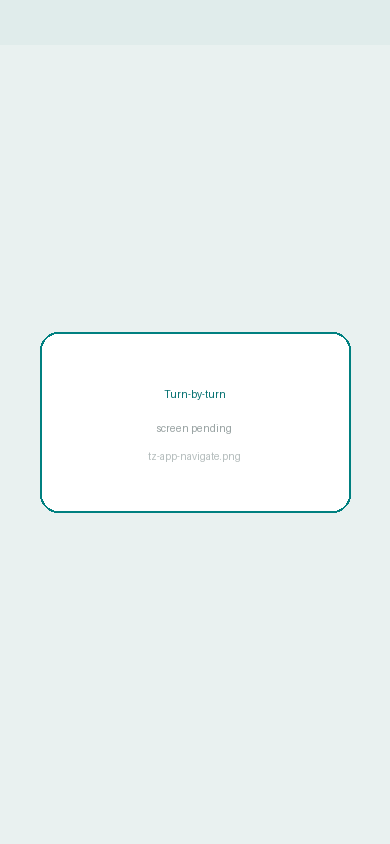
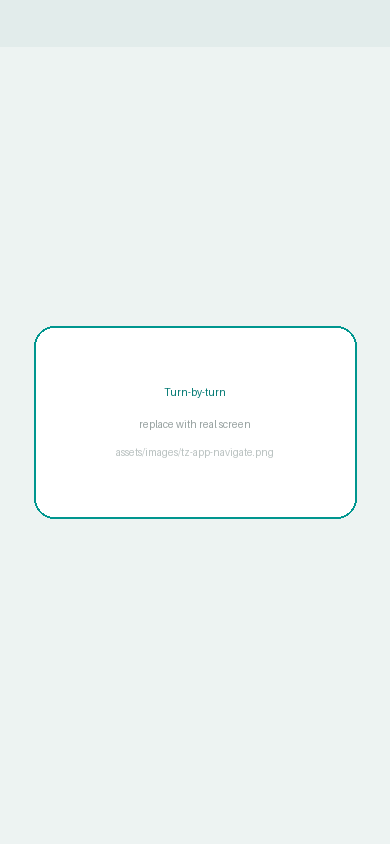
Homepage bento + TrackZone app section
- Bento grid: SmartChat is the large card, TrackZone and My Ride are
  equal cards below it, so the row aligns (no orphaned card)
- TrackZone mobile app: drop the alternating text/phone layout for a
  simple 3-phone strip (route, navigate, stop list); phone images are
  placeholders pending the real screens

Changed region(s): [[0.0615, 0.4005, 0.9231, 0.6161], [0.1231, 0.3697, 0.8923, 0.4005], [0.3077, 0.4621, 0.6462, 0.5545]]

diff --git a/case-studies/trackzone.html b/case-studies/trackzone.html
@@ -221,48 +221,24 @@
         </div>
 
         <div class="cs-mod reveal" id="tzapp">
-          <h3>Mobile app · the driver's routing flow</h3>
-          <p>Admins provision bins by QR and watch routes live. The driver side is one guided loop, kept deliberately simple for use at the wheel: pick up the day's route, follow turn-by-turn to each bin, mark it done or skip with a reason, and close out at the depot.</p>
-          <!-- Moizza: the 6 phone images below are placeholders. Replace these files with the real
-               screens (keep the same names): tz-app-route / tz-app-navigate / tz-app-confirm /
-               tz-app-stops / tz-app-scan / tz-app-bins .png in assets/images/. -->
-
-          <div class="cs-screen">
-            <div class="cs-screen-text">
-              <h4>The day's route</h4>
-              <p>Home opens on the assigned route (date, waste type, bin count, distance and time) with the whole loop on the map and one action: Start Route.</p>
-            </div>
-            <div class="cs-screen-media"><img src="../assets/images/tz-app-route.png" alt="Driver home, the day's route" loading="lazy"></div>
-          </div>
-
-          <div class="cs-screen reverse">
-            <div class="cs-screen-text">
-              <h4>Turn-by-turn to the next bin</h4>
-              <p>Navigation runs full-screen on HERE Maps (next turn, distance, speed) with the route card tucked at the bottom, one swipe from the full stop list.</p>
-            </div>
-            <div class="cs-screen-media"><img src="../assets/images/tz-app-navigate.png" alt="Turn-by-turn navigation to a bin" loading="lazy"></div>
-          </div>
-
-          <div class="cs-screen">
-            <div class="cs-screen-text">
-              <h4>Done, or skip with a reason</h4>
-              <p>At each stop the driver confirms the pickup or skips it for a reason like a blocked bin or roadworks, and that flows straight back to the dashboard.</p>
-            </div>
-            <div class="cs-screen-media"><img src="../assets/images/tz-app-confirm.png" alt="Confirm or skip a stop" loading="lazy"></div>
-          </div>
-
-          <div class="cs-screen reverse">
-            <div class="cs-screen-text">
-              <h4>Depot to destination</h4>
-              <p>The stop list is the spine of the run: Depot, each numbered bin, then Dump and final Destination, with the active stop highlighted as the driver moves through it.</p>
-            </div>
-            <div class="cs-screen-media"><img src="../assets/images/tz-app-stops.png" alt="Route stop list" loading="lazy"></div>
-          </div>
-
-          <p class="cs-modnote">On the admin side, the same app scans a bin's QR to provision it in seconds, and mirrors the dashboard's alerts and maps in the field.</p>
-          <div class="cs-shot-pair">
-            <figure><img src="../assets/images/tz-app-scan.png" alt="QR scanner for bin provisioning" loading="lazy"><figcaption>QR provisioning</figcaption></figure>
-            <figure><img src="../assets/images/tz-app-bins.png" alt="Bins list on mobile" loading="lazy"><figcaption>Bins, on mobile</figcaption></figure>
+          <h3>Mobile app: the driver's routing flow</h3>
+          <p>Admins provision bins by QR and watch routes live. The driver side is one guided loop, kept deliberately simple for use at the wheel: pick up the day's route on a map, follow turn-by-turn to each bin, mark it done or skip with a reason, and close out at the depot.</p>
+          <!-- Moizza: the 3 phone images below are placeholders. Replace these exact files with the
+               real screens (keep the names): tz-app-route.png, tz-app-navigate.png, tz-app-stops.png
+               in assets/images/. -->
+          <div class="cs-phonestrip">
+            <figure>
+              <img src="../assets/images/tz-app-route.png" alt="Driver home with the day's route on a map" loading="lazy">
+              <figcaption>The day's route, one tap to start</figcaption>
+            </figure>
+            <figure>
+              <img src="../assets/images/tz-app-navigate.png" alt="Turn-by-turn navigation to a bin" loading="lazy">
+              <figcaption>Turn-by-turn to each bin</figcaption>
+            </figure>
+            <figure>
+              <img src="../assets/images/tz-app-stops.png" alt="Route stop list, depot to destination" loading="lazy">
+              <figcaption>Stop list: depot, bins, dump, destination</figcaption>
+            </figure>
           </div>
         </div>
 

diff --git a/style.css b/style.css
@@ -523,7 +523,7 @@ body.cursor-ready #cursor-trail-canvas { opacity: 1; }
    -------------------------------------------------------------------------- */
 .bento-grid {
   display: grid;
-  grid-template-columns: repeat(auto-fit, minmax(300px, 1fr));
+  grid-template-columns: 1fr 1fr;
   gap: clamp(20px, 3vw, 40px);
   margin-top: clamp(40px, 5vw, 60px);
 }
@@ -1255,26 +1255,34 @@ figure.cs-winfig figcaption {
 }
 .cs-phone img { width: 100%; display: block; }
 
-/* mobile-app walkthrough inside a module block */
-#tzapp .cs-screen { padding: clamp(26px, 4vw, 44px) 0; }
-#tzapp .cs-screen-text h4 {
-  font-family: var(--font-display);
-  font-weight: 400;
-  font-size: clamp(18px, 2.2vw, 23px);
-  letter-spacing: -0.005em;
-  color: var(--ink);
-  margin: 0 0 10px;
+/* mobile-app screens — a simple row of 2-3 phones, no alternating layout */
+.cs-phonestrip {
+  display: flex;
+  flex-wrap: wrap;
+  justify-content: center;
+  gap: clamp(18px, 3vw, 36px);
+  margin-top: 26px;
 }
-#tzapp .cs-screen-media img {
-  max-height: 470px;
-  border-radius: 24px;
+.cs-phonestrip figure {
+  flex: 0 1 210px;
+  margin: 0;
+  text-align: center;
 }
-#tzapp .cs-modnote { margin: 24px 0 0; }
-#tzapp .cs-shot-pair {
-  max-width: 460px;
-  margin-top: 16px;
+.cs-phonestrip img {
+  width: 100%;
+  display: block;
+  border-radius: 26px;
+  box-shadow: 0 34px 55px -32px rgba(28, 26, 36, 0.4);
 }
-#tzapp .cs-shot-pair img { border-radius: 22px; }
+.cs-phonestrip figcaption {
+  font-family: var(--font-mono);
+  font-size: 10px;
+  letter-spacing: 0.08em;
+  text-transform: uppercase;
+  color: var(--ink-faint);
+  margin-top: 12px;
+  line-height: 1.4;
+}
 
 .cs-cols {
   display: grid;

diff --git a/index.html b/index.html
@@ -97,19 +97,7 @@
     </div>
 
     <div class="bento-grid">
-      <a class="bento-card bento-card-lg reveal" href="case-studies/trackzone.html"
-         data-cursor="open">
-        <div class="bento-image">
-          <img src="assets/images/TRACKZONE_COVER.png" alt="Trackzone Platform">
-        </div>
-        <div class="bento-content">
-          <p class="bento-num">001</p>
-          <h3 class="bento-title">Trackzone Platform</h3>
-          <p class="bento-tags">IoT · Enterprise SaaS · 18 months</p>
-        </div>
-      </a>
-
-      <a class="bento-card bento-card-md reveal" href="case-studies/smartchat-ai.html"
+      <a class="bento-card bento-card-lg reveal" href="case-studies/smartchat-ai.html"
          data-cursor="open">
         <div class="bento-image">
           <img src="assets/images/SMARTCHAT_COVER.png" alt="SmartChat AI">
@@ -118,6 +106,18 @@
           <p class="bento-num">002</p>
           <h3 class="bento-title">SmartChat AI- Floating App</h3>
           <p class="bento-tags">Mobile · Accessibility · SmartChat AI</p>
+        </div>
+      </a>
+
+      <a class="bento-card bento-card-md reveal" href="case-studies/trackzone.html"
+         data-cursor="open">
+        <div class="bento-image">
+          <img src="assets/images/TRACKZONE_COVER.png" alt="Trackzone Platform">
+        </div>
+        <div class="bento-content">
+          <p class="bento-num">001</p>
+          <h3 class="bento-title">Trackzone Platform</h3>
+          <p class="bento-tags">IoT · Enterprise SaaS · 18 months</p>
         </div>
       </a>
 
